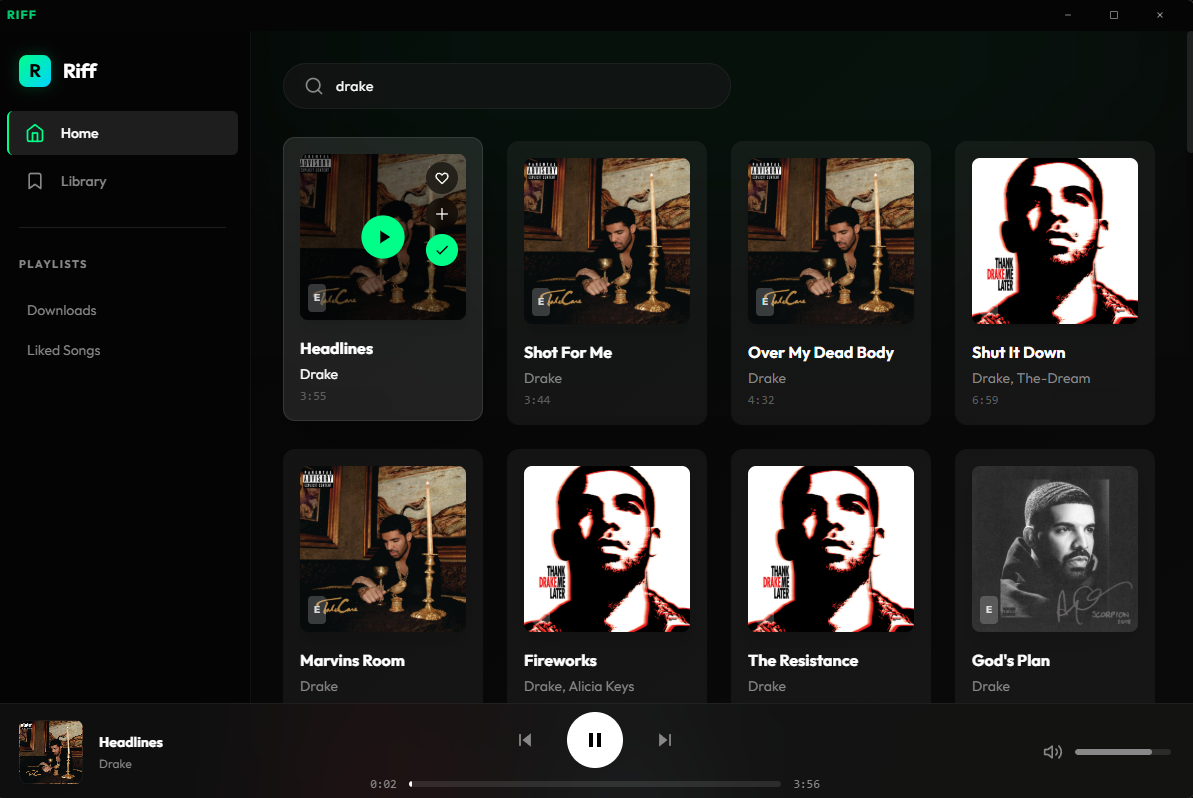
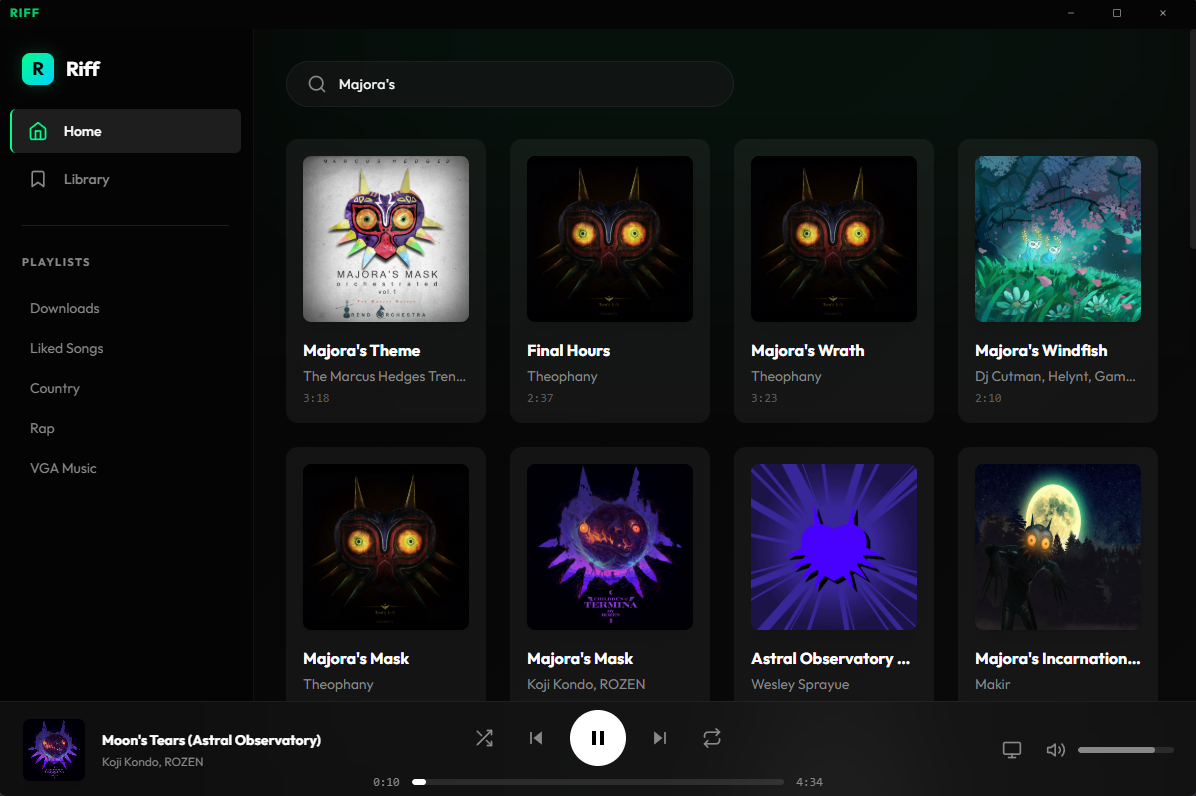
Update readme and images

diff --git a/README.md b/README.md
@@ -6,6 +6,21 @@
 
 Riff is a desktop application designed to bridge the gap between streaming and offline playback. It allows you to search for songs using the Spotify API, organize them into playlists, and automatically download them for offline listening. With a beautiful glassmorphism-inspired interface, dark mode support, and smooth animations, Riff offers a premium music experience on your desktop.
 
+## 🆕 What's New in v1.1.0
+**Latest Release (2026-01-10)**
+
+### ✨ New Features
+- **YouTube Integration**: Direct downloads from YouTube URLs.
+- **Miniplayer**: New compact window mode for background listening.
+- **Advanced Playback Controls**: Added Shuffle and Loop functionality.
+- **Smart Automation**: "Liked" songs are now automatically downloaded.
+- **Enhanced Playlists**: Improved playlist management with "Downloads" and "Liked Songs" auto-playlists.
+
+### 🎨 Improvements
+- **UI Refinements**: Added new control buttons and updated styling for active states.
+- **Playlist Sync**: Deleting a download now removes it from all playlists.
+- **Cover Art**: Better support for YouTube thumbnails and fallback images.
+
 ## ✨ Features
 
 - **Search & Discover**: Access the vast library of songs via Spotify search integration.
@@ -26,10 +41,15 @@ Riff is a desktop application designed to bridge the gap between streaming and o
 | ![Home View](src/renderer/assets/Home.png) | ![Library View](src/renderer/assets/Library.png) |
 | *Home & Search* | *Your Library* |
 
-| Playlist View |
-|:---:|
-| ![Playlist View](src/renderer/assets/Playlist.png) |
-| *Custom Playlists* |
+| Playlist View | Miniplayer |
+|:---:|:---:|
+| ![Playlist View](src/renderer/assets/Playlist.png) | ![Miniplayer](src/renderer/assets/Miniplayer.png) |
+| *Custom Playlists* | *Compact Miniplayer* |
+
+| YouTube Import | Context Menu |
+|:---:|:---:|
+| ![YouTube Import](src/renderer/assets/Import_Youtube.png) | ![Context Menu](src/renderer/assets/Right_Click.png) |
+| *Direct YouTube Download* | *Right-Click Controls* |
 
 ## 🚀 Getting Started
 
